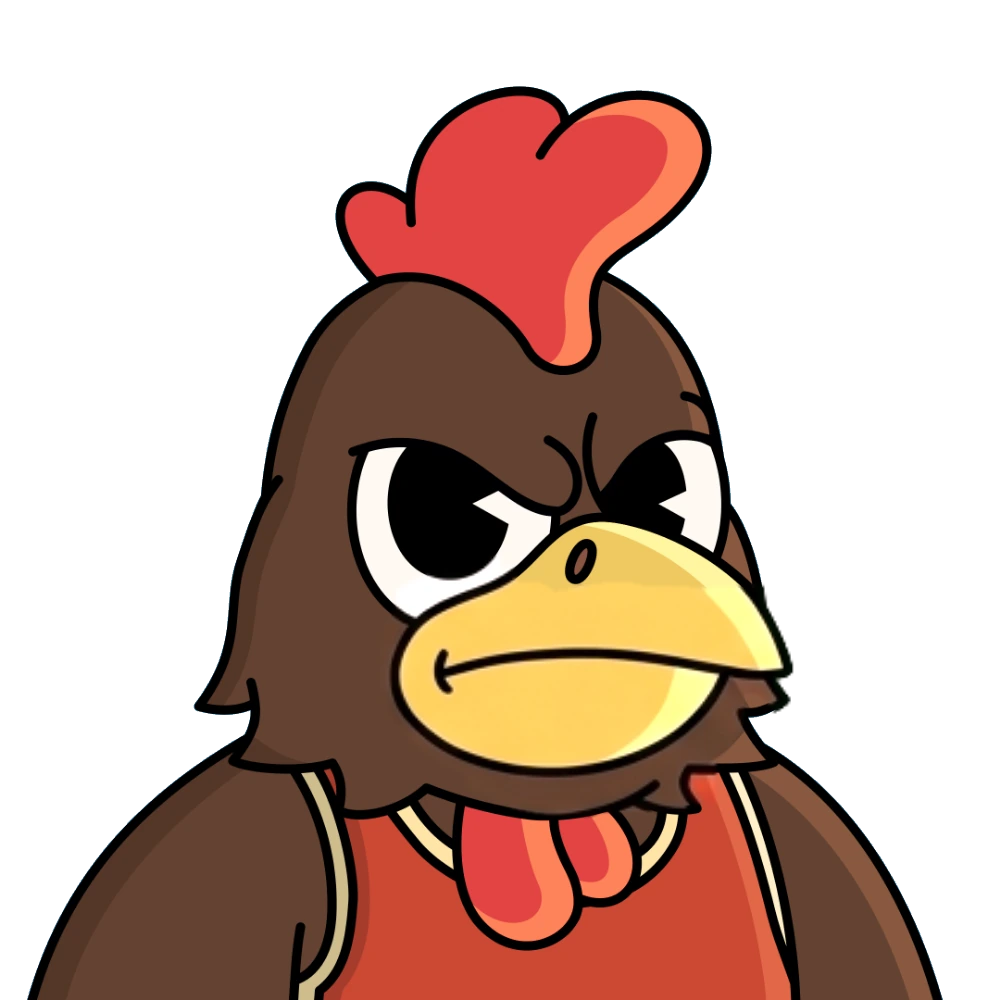
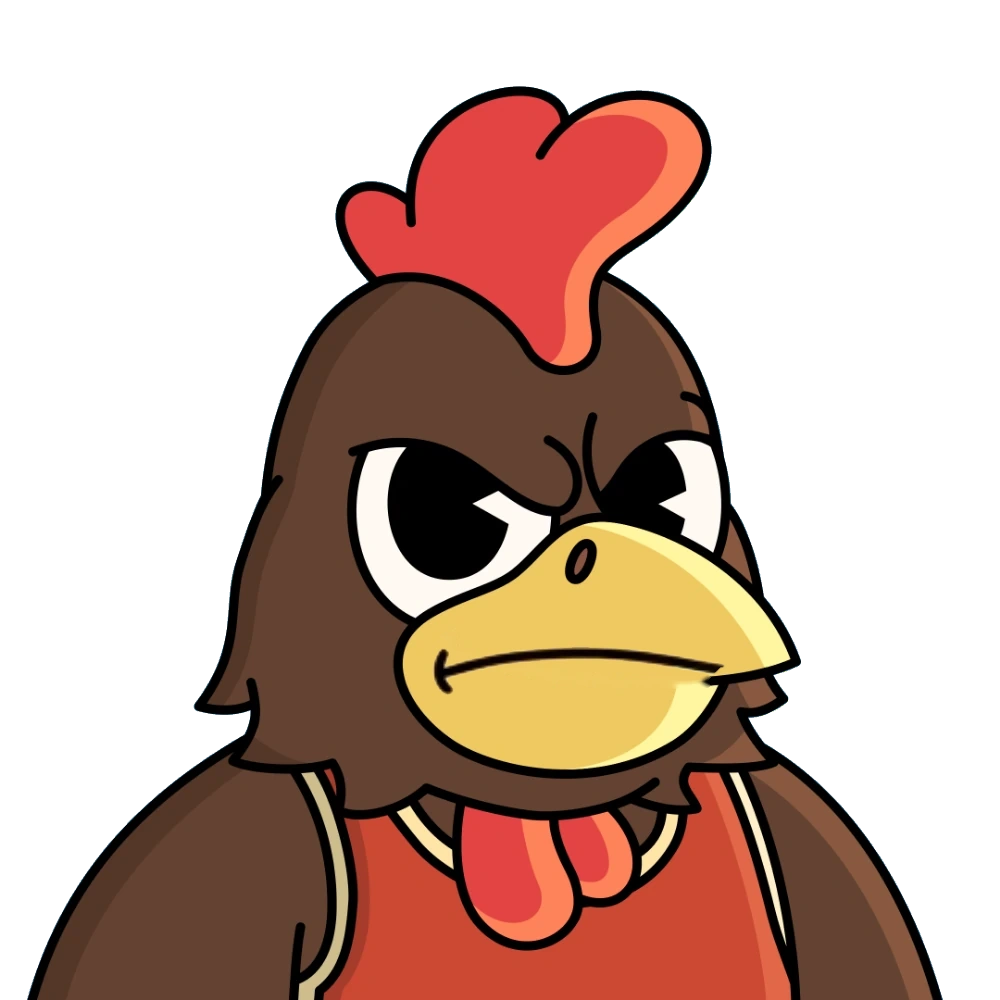
Talking mouths: a plain-mouthed twin shows what's under a big mouth; cleaner teeth, shines and shading
- A Nibble with a big mouth of its own (Open, AWOOGA, Happy, Drooling, Tongue Out...) borrows what's under it from another Nibble with the same kind, skin and outfit and a plain mouth (96% have one), so closing the talking mouth shows the real collar, fur or chin instead of a guessed black blob (Bears especially). Eyes and hats stay its own.
- Teeth are solid white blocks against the mouth; thin white lip shines take the face's colour (no white streaks on dark gnomes)
- A shade the kit drew over the skin (a darker underside) is this Nibble's skin, shaded, not a patch filled from around it
- Straws, matches and the like stay whole with a twin too
- Cock kit: M/B/P, F/V and frown frames rebuilt from the clean picture (the sheet had smeared the beak and cut the eyes)

Claude-Session: https://claude.ai/code/session_01AAjfD4JXrwKrGtAMJHTTVa

Changed region(s): [[0.372, 0.589, 0.806, 0.837], [0.403, 0.558, 0.527, 0.651], [0.434, 0.651, 0.465, 0.682]]

diff --git a/kit.js b/kit.js
@@ -113,7 +113,7 @@ function colourMap(R, T, where, okT) {
     // a darker shade of a main skin colour (Gemini often draws the fur darker, and outlines fade into it): the same
     // shade of this Nibble's colour. Checked first for anything that isn't ink, since a dark detail colour can look alike.
     let bd = null, bs = 0, be = r + g + b >= 80 ? 22 : 40;
-    for (const c of known) { if (c.r + c.g + c.b < 150) continue; const s0 = (r + g + b) / Math.max(1, c.r + c.g + c.b); if (s0 < 0.12 || s0 > 1.05) continue;
+    for (const c of known) { if (c.r + c.g + c.b < 150) continue; const s0 = (r + g + b) / Math.max(1, c.r + c.g + c.b); if (s0 < 0.12 || s0 > 1.14) continue;   // (a lip shine, a touch lighter than the skin, too)
       const e = Math.abs(r - s0 * c.r) + Math.abs(g - s0 * c.g) + Math.abs(b - s0 * c.b); if (e < be) { be = e; bd = c; bs = s0; } }
     const shade = bd ? [bd.tr * bs, bd.tg * bs, bd.tb * bs].map(v => Math.max(0, Math.min(255, Math.round(v)))) : null;
     if (m && (!shade || m.d < 12)) return [m.tr + (r - m.r), m.tg + (g - m.g), m.tb + (b - m.b)].map(v => Math.max(0, Math.min(255, Math.round(v))));
@@ -123,8 +123,8 @@ function colourMap(R, T, where, okT) {
 
 // T: this Nibble's picture (background cut, 1000 px). ref: { base, mouths[10], eyes[5] } of the kind's reference.
 // Returns { frames[10], eyes[5], mouthBox, eyeBox } in the builder's format.
-export function fromKit(Timg, ref, { blink = true, dbg = null, wideFace = false, loopBody = false, front = false } = {}) {
-  const T = data(Timg), R = data(ref.base), K = ref.mouths.map(data);
+export function fromKit(Timg, ref, { blink = true, dbg = null, wideFace = false, loopBody = false, front = false, donor = null } = {}) {
+  const T = data(Timg), T0 = T.slice(), R = data(ref.base), K = ref.mouths.map(data);
   // Gemini's panels have small dark flecks in the fur: a dark spot too small to be part of a line takes the colour around it
   for (let k = 1; k < 10; k++) unfleck(K[k]);
   if (ref.eyes) ref._E = ref.eyes.map(e => e ? data(e) : null);
@@ -134,6 +134,23 @@ export function fromKit(Timg, ref, { blink = true, dbg = null, wideFace = false,
   for (let k = 1; k < 10; k++) { const D = K[k]; for (let p = 0; p < N * N; p++) { const i = p * 4; if (Math.abs(D[i + 3] - R[i + 3]) > 60 || dist(D, i, R, i) > 60) hits[p]++; } }
   { const keep = blobs(hits, 60); for (let p = 0; p < N * N; p++) Z[p] = keep[p]; }
   const Zd = grow(Z, 8), ring = grow(Zd, 46);
+  // A Nibble whose own mouth is bigger than the kit's (open, AWOOGA, drooling, a tongue out...) hides what's under its jaw.
+  // Every Nibble of a kind is drawn in the same pose, so another with the same skin and outfit and a plain mouth (the
+  // donor) shows exactly what's there: the talking mouths are made as if this Nibble had that plain mouth. The resting
+  // face stays this Nibble's own.
+  if (donor) { const Dn = data(donor), zone = grow(Zd, 320), dm = new Uint8Array(N * N);
+    let ztop = N; for (let p = 0; p < N * N; p++) if (Z[p]) { ztop = (p / N) | 0; break; }
+    for (let p = 0; p < N * N; p++) if (((p / N) | 0) < ztop - 10) zone[p] = 0;   // (the eyes, a hat: this Nibble's own, never the donor's)
+    if (ref.eyes) for (const e of [ref.eyes[3], ref.eyes[4]]) if (e) { const E = data(e), ez = new Uint8Array(N * N); for (let p = 0; p < N * N; p++) if (E[p * 4 + 3] > 20) ez[p] = 1;
+      const eg = grow(ez, 24); for (let p = 0; p < N * N; p++) if (eg[p]) zone[p] = 0; }
+    for (let p = 0; p < N * N; p++) { if (!zone[p]) continue; const i = p * 4; if (Math.abs(T[i + 3] - Dn[i + 3]) > 60 || dist(T, i, Dn, i) > 50) dm[p] = 1; }
+    // only the pieces that reach into the mouth area (the mouth itself, its drool or tongue); not eyes or anything else
+    const lab = new Int32Array(N * N), q = new Int32Array(N * N), use = new Uint8Array(N * N); let id = 0;
+    for (let s0 = 0; s0 < N * N; s0++) { if (!dm[s0] || lab[s0]) continue; id++; let h = 0, t = 0, inZ = 0; q[t++] = s0; lab[s0] = id;
+      while (h < t) { const p = q[h++], x = p % N; if (Zd[p]) inZ++; for (const j of [x > 0 ? p - 1 : -1, x < N - 1 ? p + 1 : -1, p - N, p + N]) if (j >= 0 && j < N * N && dm[j] && !lab[j]) { lab[j] = id; q[t++] = j; } }
+      if (inZ >= 20) for (let k = 0; k < t; k++) use[q[k]] = 1; }
+    const g = grow(fillHoles(use), 3); donor.box = [N, N, 0, 0];
+    for (let p = 0; p < N * N; p++) if (g[p] && zone[p]) { const i = p * 4, x = p % N, y = (p / N) | 0; const b = donor.box; if (x < b[0]) b[0] = x; if (y < b[1]) b[1] = y; if (x > b[2]) b[2] = x; if (y > b[3]) b[3] = y; T[i] = Dn[i]; T[i + 1] = Dn[i + 1]; T[i + 2] = Dn[i + 2]; T[i + 3] = Dn[i + 3]; } }
   for (let p = 0; p < N * N; p++) if (Zd[p]) ring[p] = 0;
   // and around the eyes (the blink layers): the fur there can differ from the snout's
   const EZ = new Uint8Array(N * N); let eyeRing = null;
@@ -251,7 +268,9 @@ export function fromKit(Timg, ref, { blink = true, dbg = null, wideFace = false,
   // where this Nibble's own mouth area differs from the reference (its own mouth trait): talking replaces it.
   // Only on the face: a different outfit or collar near the jaw stays this Nibble's own.
   const own = new Uint8Array(N * N);
-  for (let p = 0; p < N * N; p++) { if (!Zd[p] || !face[p]) continue; const i = p * 4, m = mapped(R, i);
+  // (with a donor standing in, only the mouth zone itself: below it the difference is this Nibble's outfit, not its mouth)
+  for (let p = 0; p < N * N; p++) { if (!Zd[p] || !face[p] || (donor && !Z[p])) continue; const i = p * 4, m = mapped(R, i);
+    if (donor && lum(T, i) >= 200 && lum(R, i) < 300) continue;   // (the donor's collar or clothes where the reference shows fur)
     if (Math.abs(T[i + 3] - R[i + 3]) > 60 || (m && Math.abs(m[0] - T[i]) + Math.abs(m[1] - T[i + 1]) + Math.abs(m[2] - T[i + 2]) > 70)) own[p] = 1; }
   const ownG = grow(own, 3);
   // a tongue or drool hanging out of this Nibble's mouth (Tongue Out, Drooling): gone while it talks
@@ -271,6 +290,7 @@ export function fromKit(Timg, ref, { blink = true, dbg = null, wideFace = false,
   // this Nibble's own face colours around the mouth (a jaw shade must be one of these, not e.g. a yellow logo elsewhere)
   const tf = new Uint32Array(32768); for (let p = 0; p < N * N; p++) { if (!ring[p] && !Zd[p]) continue; const i = p * 4; if (T[i + 3] > 200) tf[bin(T[i], T[i + 1], T[i + 2])]++; }
   const faceP = palette(tf, 40, 2);
+  const snoutC = snout.length ? [((snout[0] >> 10) << 3) + 4, (((snout[0] >> 5) & 31) << 3) + 4, ((snout[0] & 31) << 3) + 4] : null, snoutL = snoutC ? snoutC[0] + snoutC[1] + snoutC[2] : 999, snoutT = snoutC ? map(...snoutC) : null;
   // the same colours as a list (mouth colours left out), to snap a recoloured skin pixel the map got wrong (a mauve chin on
   // a white raccoon) to the nearest colour this Nibble's face really has
   const faceList = []; { const sum = new Map();
@@ -315,8 +335,22 @@ export function fromKit(Timg, ref, { blink = true, dbg = null, wideFace = false,
   let mb = [N, N, 0, 0];
   for (let k = 1; k < 10; k++) {
     const D = K[k], use = new Uint8Array(N * N);
+    // teeth: solid white blocks the mouth draws (a thin white lip shine isn't teeth: it's recoloured like the skin)
+    const wt = new Uint8Array(N * N); for (let p = 0; p < N * N; p++) { if (!Zd[p]) continue; const i = p * 4; if (D[i + 3] > 200 && D[i] + D[i + 1] + D[i + 2] > 630 && Math.max(D[i], D[i + 1], D[i + 2]) - Math.min(D[i], D[i + 1], D[i + 2]) < 40 && dist(D, i, R, i) > 40) wt[p] = 1; }
+    // (teeth sit against dark: the mouth's inside or ink lines; a shine sits on the skin)
+    const teethM = new Uint8Array(N * N); { const lab = new Int32Array(N * N), q = new Int32Array(N * N); let id = 0;
+      for (let s0 = 0; s0 < N * N; s0++) { if (!wt[s0] || lab[s0]) continue; id++; let h = 0, t = 0; q[t++] = s0; lab[s0] = id;
+        while (h < t) { const p = q[h++], x = p % N; for (const j of [x > 0 ? p - 1 : -1, x < N - 1 ? p + 1 : -1, p - N, p + N]) if (j >= 0 && j < N * N && wt[j] && !lab[j]) { lab[j] = id; q[t++] = j; } }
+        let ring = 0, dark = 0; for (let k = 0; k < t; k++) { const p = q[k], x = p % N; for (const j of [x > 4 ? p - 5 : -1, x < N - 5 ? p + 5 : -1, p - 5 * N, p + 5 * N]) if (j >= 0 && j < N * N && !wt[j]) { ring++; if (D[j * 4 + 3] > 120 && (lum(D, j * 4) < 450 || mouthHue(D[j * 4], D[j * 4 + 1], D[j * 4 + 2]))) dark++; } }
+        if (t >= 30 && ring && dark > ring * 0.5) for (let k = 0; k < t; k++) teethM[q[k]] = 1; }
+      // and solid: a shine is a thin streak (thinner than ~10 px all along); a tooth isn't
+      const thick = grow(shrink(teethM, 6), 8); for (let p = 0; p < N * N; p++) if (teethM[p] && !thick[p]) teethM[p] = 0;
+      const big = blobs(teethM, 250); for (let p = 0; p < N * N; p++) if (!big[p]) teethM[p] = 0; }
     for (let p = 0; p < N * N; p++) { if (!Zd[p]) continue; const i = p * 4;
-      if (Math.abs(D[i + 3] - R[i + 3]) > 30 || dist(D, i, R, i) > 30) use[p] = 1; }
+      if (Math.abs(D[i + 3] - R[i + 3]) > 30 || dist(D, i, R, i) > 30) use[p] = 1;
+      // the sheet repainting the fur or clothes a slightly different shade (not a line, not the mouth's reds, pinks or
+      // teeth) isn't a change: this Nibble keeps its own there (a black bear's shirt collar stays a collar)
+      if (use[p] && D[i + 3] > 200 && R[i + 3] > 200 && lum(D, i) > 120 && lum(R, i) > 120 && dist(D, i, R, i) < 90 && !mouthHue(D[i], D[i + 1], D[i + 2]) && !mouthHue(R[i], R[i + 1], R[i + 2]) && !isSkin(R, i)) use[p] = 0; }
     // only solid changes count: scattered differences are Gemini redrawing the fur, and stay this Nibble's own
     const solid = fillHoles(grow(shrink(grow(blobs(use, 120), 3), 3), 0));
     const useG = grow(solid, 2); for (let p = 0; p < N * N; p++) { if (ownG[p] && face[p]) useG[p] = 1; useG[p] &= Zd[p]; }
@@ -351,7 +385,11 @@ export function fromKit(Timg, ref, { blink = true, dbg = null, wideFace = false,
       if (!(R[i + 3] > 200 && isSkin(R, i))) { keepT[p] = 1; continue; }
       if (chinT && !inPal(clothP, D[i], D[i + 1], D[i + 2]) && !map(D[i], D[i + 1], D[i + 2])) { const sc = Math.min(1.1, lum(D, i) / lumJaw); subst.set(p, chinT.map(v => Math.max(0, Math.min(255, Math.round(v * sc))))); continue; }   // over the reference's skin: a lip shade with no match here
       if (inPal(clothP, D[i], D[i + 1], D[i + 2]) || !inPal(ownP, D[i], D[i + 1], D[i + 2])) foreign[p] = 1; }
-    { const f = blobs(foreign, 12); for (let p = 0; p < N * N; p++) if (f[p]) hole[p] = 1; }
+    { const f = blobs(foreign, 12); for (let p = 0; p < N * N; p++) if (f[p]) { const i = p * 4;
+      // a shade the kit drew over the reference's own skin (a darker underside, a lighter shine): this Nibble's skin there,
+      // shaded the same (filling it from around would leave blocks)
+      if (R[i + 3] > 200 && isSkin(R, i) && lum(D, i) >= 160 && lum(R, i) >= 160) { const mR = mapped(R, i); if (mR) { const sc = Math.max(0.6, Math.min(1.12, lum(D, i) / lum(R, i))); subst.set(p, mR.map(v => Math.max(0, Math.min(255, Math.round(v * sc))))); continue; } }
+      hole[p] = 1; } }
     // a hole on the reference's jaw skin that isn't its clothes showing (a lip, a chin shade): this Nibble's own chin colour
     if (chinT) for (let p = 0; p < N * N; p++) { if (!hole[p] || stick[p]) continue; const i = p * 4;
       if ((onJawR(i) || (R[i + 3] > 200 && isSkin(R, i) && ((p / N) | 0) > zy)) && D[i + 3] > 200 && lum(D, i) >= 300 && !inPal(botP, D[i], D[i + 1], D[i + 2])) {
@@ -361,11 +399,18 @@ export function fromKit(Timg, ref, { blink = true, dbg = null, wideFace = false,
     const a = soft(useG), c = cv(), g = c.getContext('2d'), id = g.createImageData(N, N), o = id.data;
     for (let p = 0; p < N * N; p++) { const i = p * 4, w = a[p];
       if (w <= 0) { o[i] = T[i]; o[i + 1] = T[i + 1]; o[i + 2] = T[i + 2]; o[i + 3] = T[i + 3]; continue; }
-      const f = fill.get(p);
+      // with a donor, whatever this mouth leaves open is simply what the donor shows there (no guessing from around it)
+      const f = donor && (hole[p] || fill.has(p)) ? [T[i], T[i + 1], T[i + 2]] : fill.get(p);
       // teeth stay white: a white the mouth draws where the reference had no white there is teeth, never recoloured as skin
-      const teeth = !f && !keepT[p] && D[i + 3] > 200 && D[i] + D[i + 1] + D[i + 2] > 630 && Math.max(D[i], D[i + 1], D[i + 2]) - Math.min(D[i], D[i + 1], D[i + 2]) < 40 && !(R[i + 3] > 200 && R[i] + R[i + 1] + R[i + 2] > 600);
+      const teeth = !f && !keepT[p] && wt[p] && teethM[p];
       let m = f ? f : teeth ? [D[i], D[i + 1], D[i + 2]] : subst.has(p) ? subst.get(p) : keepT[p] ? [T[i], T[i + 1], T[i + 2]] : (mapped(D, i) || [T[i], T[i + 1], T[i + 2]]); const da = f ? 255 : keepT[p] ? T[i + 3] : D[i + 3];
-      if (!f && !teeth && !keepT[p] && !subst.has(p) && D[i + 3] > 200 && lum(D, i) >= 160 && !isMouthC(D[i], D[i + 1], D[i + 2])) m = snapFace(m);   // a skin colour this face doesn't have
+      const shine = lum(D, i) >= 630 && Math.max(D[i], D[i + 1], D[i + 2]) - Math.min(D[i], D[i + 1], D[i + 2]) < 40 && !teethM[p];   // white, but not a block of teeth
+      if (!f && !teeth && !keepT[p] && !subst.has(p) && D[i + 3] > 200 && lum(D, i) >= 160 && (shine || !isMouthC(D[i], D[i + 1], D[i + 2]))) {
+        // a shine a touch lighter than the face (a lip highlight) is this Nibble's face colour, a touch lighter
+        const mR = R[i + 3] > 200 && lum(D, i) >= lum(R, i) && dist(D, i, R, i) < 60 && isSkin(R, i) ? mapped(R, i) : null;   // over the reference's own skin there
+        if (mR) { const sc = Math.min(1.12, lum(D, i) / Math.max(1, lum(R, i))); m = mR.map(v => Math.max(0, Math.min(255, Math.round(v * sc)))); }
+        else if (snoutT && lum(D, i) >= snoutL && Math.abs(D[i] - snoutC[0]) + Math.abs(D[i + 1] - snoutC[1]) + Math.abs(D[i + 2] - snoutC[2]) < 55) { const sc = Math.min(1.12, lum(D, i) / snoutL); m = snoutT.map(v => Math.max(0, Math.min(255, Math.round(v * sc)))); }
+        else m = snapFace(m); }   // a skin colour this face doesn't have
       for (let ch = 0; ch < 3; ch++) o[i + ch] = Math.round(T[i + ch] * (1 - w) + m[ch] * w);
       o[i + 3] = Math.round(T[i + 3] * (1 - w) + da * w);
       if (useG[p]) { const x = p % N, y = (p / N) | 0; if (x < mb[0]) mb[0] = x; if (y < mb[1]) mb[1] = y; if (x > mb[2]) mb[2] = x; if (y > mb[3]) mb[3] = y; }
@@ -379,14 +424,15 @@ export function fromKit(Timg, ref, { blink = true, dbg = null, wideFace = false,
   //  - its own bigger mouth (a wide open beak, a big grin): the part past the zone is painted as the reference's face
   //    there, so the old mouth's outline doesn't hang around the new one
   { const zone = grow(Zd, 140), dif = new Uint8Array(N * N);
-    for (let p = 0; p < N * N; p++) { if (!zone[p]) continue; const i = p * 4; if (T[i + 3] < 100 && R[i + 3] < 100) continue;
-      if (Math.abs(T[i + 3] - R[i + 3]) > 80) { dif[p] = 1; continue; } const m = mapped(R, i); if (m && Math.abs(m[0] - T[i]) + Math.abs(m[1] - T[i + 1]) + Math.abs(m[2] - T[i + 2]) > 80) dif[p] = 1; }
+    for (let p = 0; p < N * N; p++) { if (!zone[p]) continue; const i = p * 4; if (T0[i + 3] < 100 && R[i + 3] < 100) continue;
+      if (Math.abs(T0[i + 3] - R[i + 3]) > 80) { dif[p] = 1; continue; } const m = mapped(R, i); if (m && Math.abs(m[0] - T0[i]) + Math.abs(m[1] - T0[i + 1]) + Math.abs(m[2] - T0[i + 2]) > 80) dif[p] = 1; }
     const lab = new Int32Array(N * N), q = new Int32Array(N * N), fr = new Uint8Array(N * N), bh = new Uint8Array(N * N); let id = 0;
     for (let s0 = 0; s0 < N * N; s0++) { if (!dif[s0] || lab[s0]) continue; id++; let h = 0, t = 0, inZ = 0; q[t++] = s0; lab[s0] = id;
       while (h < t) { const p = q[h++], x = p % N; if (Zd[p]) inZ++;
         for (const j of [x > 0 ? p - 1 : -1, x < N - 1 ? p + 1 : -1, p - N, p + N]) if (j >= 0 && j < N * N && dif[j] && !lab[j]) { lab[j] = id; q[t++] = j; } }
       const out = t - inZ; if (!inZ || out < 40) continue;
       if (front) { for (let k = 0; k < t; k++) fr[q[k]] = 1; continue; }
+      if (donor) continue;   // (the donor already shows the face there)
       if (inZ < t * 0.25 || t > 30000) continue;   // mostly outside the mouth: clothes, a collar, not the mouth
       for (let k = 0; k < t; k++) { const p = q[k], i = p * 4; if (Zd[p] || R[i + 3] < 200 || T[i + 3] < 100) continue; if (isSkin(R, i) || lum(R, i) < 160) bh[p] = 1; } }
     let any = false; for (let p = 0; p < N * N && !any; p++) if (fr[p] || bh[p]) any = true;
@@ -396,11 +442,13 @@ export function fromKit(Timg, ref, { blink = true, dbg = null, wideFace = false,
         // (a mustache lets the talking mouth show through it, outline and all: only what the mouth leaves as face is covered)
         const mo = front === 'mustache' ? (() => { const c = new Uint8Array(N * N); for (let p = 0; p < N * N; p++) { const i = p * 4; if (Zd[p] && D[i + 3] > 120 && dist(D, i, R, i) > 60 && (isMouthC(D[i], D[i + 1], D[i + 2]) || lum(D, i) < 200)) c[p] = 1; } return grow(blobs(c, 40), 2); })() : null;
         for (let p = 0; p < N * N; p++) { const i = p * 4;
-          if (fa && fa[p] > 0 && !(mo && mo[p])) { const w = fa[p]; for (let ch = 0; ch < 4; ch++) o[i + ch] = Math.round(o[i + ch] * (1 - w) + T[i + ch] * w); continue; }
+          if (fa && fa[p] > 0 && !(mo && mo[p])) { const w = fa[p]; for (let ch = 0; ch < 4; ch++) o[i + ch] = Math.round(o[i + ch] * (1 - w) + T0[i + ch] * w); continue; }
           if (bh[p]) { const m = mapped(R, i); if (m) { o[i] = m[0]; o[i + 1] = m[1]; o[i + 2] = m[2]; o[i + 3] = R[i + 3]; } } }
         g.putImageData(id2, 0, 0); }
       for (let p = 0; p < N * N; p++) if (frm[p] || bh[p]) { const x = p % N, y = (p / N) | 0; if (x < mb[0]) mb[0] = x; if (y < mb[1]) mb[1] = y; if (x > mb[2]) mb[2] = x; if (y > mb[3]) mb[3] = y; }
     } }
+  // the talking frames show the donor's pixels wherever this Nibble's big mouth was: all of that is part of the mouth box
+  if (donor && donor.box && donor.box[2] >= donor.box[0]) { const b = donor.box; mb = [Math.min(mb[0], b[0]), Math.min(mb[1], b[1]), Math.max(mb[2], b[2]), Math.max(mb[3], b[3])]; }
   if (mb[2] < mb[0]) mb = [0, 0, 0, 0];
   // the blink: the reference's half-closed and closed eye layers, recoloured
   let eyes = [null, null, null, null, null], eb = [0, 0, 0, 0];

diff --git a/index.html b/index.html
@@ -418,7 +418,7 @@ header .credit b{font-weight:400}
 // Config
 // ---------------------------------------------------------------------------
 const MP_VERSION = '0.10.14';
-const ART_V = '20261116-1600';   // bump when art changes, so phones never show old cached frames
+const ART_V = '20261116-1800';   // bump when art changes, so phones never show old cached frames
 const MP_MODEL = 'https://storage.googleapis.com/mediapipe-models/face_landmarker/face_landmarker/float16/1/face_landmarker.task';
 
 // Each Nibble: eye layers e0–e4 and ten whole-face mouth frames m0–m9, all lined up at 1000×1000.
@@ -919,6 +919,20 @@ const kitFor = t => { const a = t && t.a; if (groupOf(a)) return groupOf(a).ref;
 // eyes that don't blink: fire, lasers, X / knocked out, spirals, slot machines, glasses and anything worn over the eyes
 const NO_BLINK = /fire|ignis|laser|knocked|dizzy|slot|3d|glasses|monocle|robot|anatomy|empty|whites|eyepatch|button|glowing|magic|three|awooga|burglar/i;
 const blinks = a => !NO_BLINK.test(String(a.Eyes || '')) && !/glasses|goggles|visor|opera mask/i.test(String(a.Accessory || ''));
+// A plain-mouthed Nibble of the same kind, skin and outfit (and accessory if one exists): what this Nibble looks like under
+// its own big mouth, for the talking mouths (kit.js). null when this Nibble's mouth is plain already or there's none.
+const PLAIN_MOUTH = ['Smile', 'Frown'];
+async function donorFor(id, a, B) {
+  if (PLAIN_MOUTH.includes(a.Mouth) || !TRAITS) return null;
+  const m = await TRAITS; if (!m) return null;
+  const col = n => m.k.indexOf(n), val = (row, n) => { const j = col(n); return row[j] >= 0 ? m.v[j][row[j]] : undefined; };
+  let best = 0, bs = -1;
+  m.t.forEach((row, k) => { const did = k + 1; if (did === id || val(row, 'Character') !== a.Character || val(row, 'Skin') !== a.Skin || val(row, 'Outfit') !== a.Outfit) return;
+    const mo = val(row, 'Mouth'); if (!PLAIN_MOUTH.includes(mo)) return;
+    const sc = (mo === 'Smile' ? 2 : 1) + (val(row, 'Accessory') === a.Accessory ? 4 : 0) + (val(row, 'Eyes') === a.Eyes ? 1 : 0); if (sc > bs) { bs = sc; best = did; } });
+  if (!best) return null;
+  try { const im = new Image(); im.crossOrigin = 'anonymous'; im.src = nibblePic(best); await im.decode(); return B.cutOriginal(im).canvas; } catch (e) { return null; }
+}
 // things in front of the mouth, kept whole on top of every talking mouth (kit.js)
 const FRONT_MOUTH = /mustache|straw|match|bubbles/i, FRONT_ACC = /dark magic/i;
 const KIT_BUSY = {};
@@ -945,9 +959,9 @@ async function kitPrepare(id) {
     try {
       const [B, K] = await Promise.all([import('./builder.js?v=' + ART_V), import('./kit.js?v=' + ART_V)]);
       const im = new Image(); im.crossOrigin = 'anonymous'; im.src = nibblePic(id); await im.decode();
-      const cut = B.cutOriginal(im), { art } = await fetchNibble(ref);
+      const cut = B.cutOriginal(im), { art } = await fetchNibble(ref), donor = await donorFor(id, a, B);
       const res = K.fromKit(cut.canvas, { base:art.base, mouths:art.mouths, eyes:art.eyes }, { blink:blinks(a) && !KIT_NO_BLINK.has(kind) && !(groupOf(a) && groupOf(a).noBlink && groupOf(a).noBlink.test(String(a.Eyes || ''))), wideFace:!!(groupOf(a) && groupOf(a).wideFace), loopBody:!!(groupOf(a) && groupOf(a).loop),
-        front:FRONT_ACC.test(String(a.Accessory || '')) ? true : /mustache/i.test(String(a.Mouth || '')) ? 'mustache' : FRONT_MOUTH.test(String(a.Mouth || '')) });
+        donor, front:FRONT_ACC.test(String(a.Accessory || '')) ? true : /mustache/i.test(String(a.Mouth || '')) ? 'mustache' : FRONT_MOUTH.test(String(a.Mouth || '')) });
       res.face = FACE_AT[ref];
       res.traits = B.findTraits(cut.canvas, res, kind, cut.bg, { halo:/halo/i.test(String(a.Accessory || '')), fire:/fire/i.test(String(a.Eyes || '')), laser:/laser/i.test(String(a.Eyes || '')) });
       const exp = await B.exportFiles(res, cut.canvas), files = {};

diff --git a/tools/fix_closed.py b/tools/fix_closed.py
@@ -1,0 +1,36 @@
+# Rebuilds a kit's closed-mouth frames (M/B/P, F/V, frown) from the clean picture: the AI sheet redrew the whole muzzle
+# or beak (blurry patches, a lost outline, the eye's edge cut). Inside the muzzle/beak the picture's own mouth line is
+# painted out (filled from around it) and the frame's mouth line is drawn on; everything else is the picture as it is.
+# usage: python3 tools/fix_closed.py <id> <seedx,seedy> <k,k,...>   (repo root)
+import sys
+import numpy as np, cv2
+from PIL import Image
+from scipy import ndimage
+tid, seed, ks = sys.argv[1], [int(v) for v in sys.argv[2].split(',')], [int(k) for k in sys.argv[3].split(',')]
+base = np.array(Image.open(f'faces/{tid}/base.webp').convert('RGBA')).astype(float)
+lum = lambda a: a[..., 0] * 0.3 + a[..., 1] * 0.59 + a[..., 2] * 0.11
+ink = (lum(base) < 100) | (base[..., 3] < 128)
+lab, n = ndimage.label(~ink); s0 = lab[seed[1], seed[0]]; c0 = base[lab == s0][:, :3].mean(0)
+M = lab == s0
+for _ in range(5):
+    ring = ndimage.binary_dilation(M, iterations=12) & ~M
+    for l in np.unique(lab[ring]):
+        if l == 0: continue
+        R = lab == l
+        if R.sum() < 200 or R.sum() > 80000: continue
+        if np.abs(base[R][:, :3].mean(0) - c0).sum() < 130: M |= R
+M = ndimage.binary_fill_holes(ndimage.binary_closing(M, iterations=6))
+inner = ndimage.binary_erosion(M, iterations=9)
+old = ink & inner                                     # the picture's own mouth line(s) inside
+rgb = np.clip(base[..., :3], 0, 255).astype(np.uint8)
+clean = cv2.inpaint(rgb, ndimage.binary_dilation(old, iterations=2).astype(np.uint8) * 255, 6, cv2.INPAINT_TELEA).astype(float)
+print('region', int(M.sum()), 'old line px', int(old.sum()))
+for k in ks:
+    f = np.array(Image.open(f'faces/{tid}/m{k}.webp').convert('RGBA')).astype(float)
+    line = (lum(f) < 110) & inner & (f[..., 3] > 200)
+    lab2, n2 = ndimage.label(line); sz = ndimage.sum(line, lab2, range(1, n2 + 1)); line = np.isin(lab2, [i + 1 for i, s in enumerate(sz) if s >= 40])
+    a = np.clip(ndimage.gaussian_filter(ndimage.binary_dilation(line, iterations=1).astype(float), 0.8) * 1.4, 0, 1)[..., None]
+    out = base.copy(); out[..., :3] = clean
+    out[..., :3] = f[..., :3] * a + out[..., :3] * (1 - a)
+    Image.fromarray(np.clip(out, 0, 255).astype(np.uint8), 'RGBA').save(f'faces/{tid}/m{k}.webp', lossless=True)
+    print('fixed', k, int(line.sum()))
